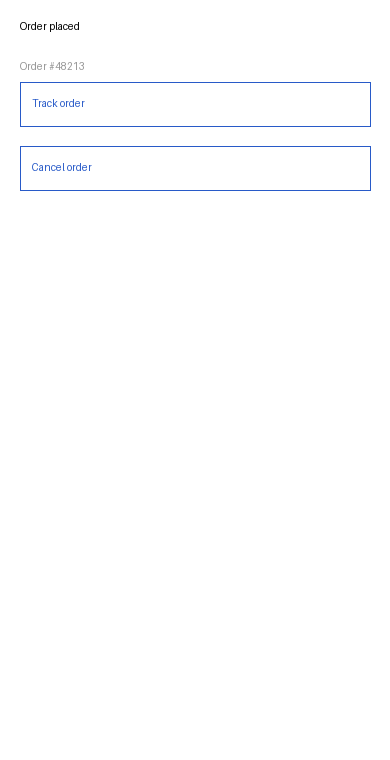
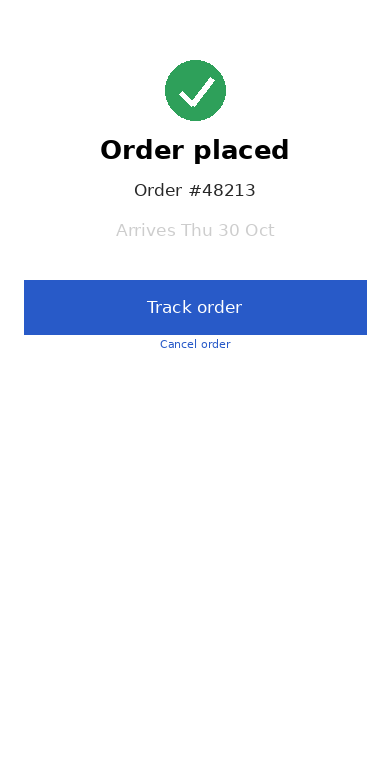
Fix two eval graders
The Design Guide rubrics judged the closing summary while their criteria
describe DESIGN.md, so they failed in both arms. They now focus on the
file, and new-system checks honest claims about the reply separately.

The audit-do-not-pad screenshot showed four problems, so an honest audit
could not stay at two. It now shows exactly two: a low-contrast delivery
date and a tiny Cancel link under the primary button.

The README now explains running the suite one tag at a time, because a
full run can exhaust a session's usage limit.

diff --git a/README.md b/README.md
@@ -174,7 +174,7 @@ claude plugin eval . --case stacked-coupon-gap --runs 1 --ablation none --scaffo
 ```
 
 - **Requirements.** Claude Code 2.1.269 or later and git 2.31 or later. Cases that grant `Bash` run in Claude Code's sandbox, which needs `bubblewrap` and `socat` on Linux or WSL.
-- **Cost.** Every run and judge call is billed to your account. In smoke runs a prompt-only run cost about $0.04 to $0.08 and a fixture run about $0.06 to $0.26, so a full suite lands roughly in the $25 to $35 range. Keep `--max-cost-usd` on.
+- **Cost.** Every run and judge call is billed to your account. In smoke runs a prompt-only run cost about $0.04 to $0.08 and a fixture run about $0.06 to $0.26, so a full suite lands roughly in the $25 to $35 range. Keep `--max-cost-usd` on. On a subscription plan the full suite can exhaust a session's usage limit (the first baseline stopped after 34 cases), so run it one `--tag` at a time across sessions. Runs that hit the limit score 0, so stop the suite rather than letting it continue.
 - **Judge.** The default judge is a small model and can misread long replies. Use `--judge-model sonnet` before trusting a regression.
 - **Results** go to `evals/results/`, which git ignores.
 

diff --git a/evals/design-guide/new-system/graders/criteria.md b/evals/design-guide/new-system/graders/criteria.md
@@ -1,12 +1,13 @@
 ---
 type: llm
+focus:
+  source: file
+  path: DESIGN.md
 ---
 
 PASS only if all of these hold:
-- Selects one primary style and explains why from the brief, saying the choice was its own.
-- The written design rules are concrete (named tokens, type, spacing, focal element), with three to five binding rules for the style.
-- Labels tokens and components as proposals, without claiming they are implemented or verified in a browser.
+- The document selects one primary style and explains why from the brief.
+- Its rules are concrete (named tokens, type, spacing, a focal element), with three to five binding rules for the style.
 
 FAIL if any of these happen:
-- Offers several styles without choosing one.
-- Claims the design was rendered or tested.
+- It offers several styles without choosing one.

diff --git a/evals/design-guide/new-system/graders/honest-claims.md b/evals/design-guide/new-system/graders/honest-claims.md
@@ -1,0 +1,10 @@
+---
+type: llm
+---
+
+PASS only if all of these hold:
+- The reply presents the style choice as its own, made from the brief.
+- It describes tokens and components as proposals, without claiming they are implemented or checked in a browser.
+
+FAIL if any of these happen:
+- It claims the design was rendered, tested or implemented.

diff --git a/evals/design-guide/pinned-editorial-design/graders/criteria.md b/evals/design-guide/pinned-editorial-design/graders/criteria.md
@@ -1,5 +1,8 @@
 ---
 type: llm
+focus:
+  source: file
+  path: DESIGN.md
 ---
 
 PASS only if all of these hold:

diff --git a/evals/design-guide/pinned-expressive-design/graders/criteria.md b/evals/design-guide/pinned-expressive-design/graders/criteria.md
@@ -1,5 +1,8 @@
 ---
 type: llm
+focus:
+  source: file
+  path: DESIGN.md
 ---
 
 PASS only if all of these hold:

diff --git a/evals/design-guide/pinned-human-made-design/graders/criteria.md b/evals/design-guide/pinned-human-made-design/graders/criteria.md
@@ -1,5 +1,8 @@
 ---
 type: llm
+focus:
+  source: file
+  path: DESIGN.md
 ---
 
 PASS only if all of these hold:

diff --git a/evals/design-guide/pinned-intentional-minimalism/graders/criteria.md b/evals/design-guide/pinned-intentional-minimalism/graders/criteria.md
@@ -1,5 +1,8 @@
 ---
 type: llm
+focus:
+  source: file
+  path: DESIGN.md
 ---
 
 PASS only if all of these hold:

diff --git a/evals/design-guide/pinned-kinetic-typography/graders/criteria.md b/evals/design-guide/pinned-kinetic-typography/graders/criteria.md
@@ -1,5 +1,8 @@
 ---
 type: llm
+focus:
+  source: file
+  path: DESIGN.md
 ---
 
 PASS only if all of these hold:

diff --git a/evals/design-guide/pinned-neoskeuomorphism/graders/criteria.md b/evals/design-guide/pinned-neoskeuomorphism/graders/criteria.md
@@ -1,5 +1,8 @@
 ---
 type: llm
+focus:
+  source: file
+  path: DESIGN.md
 ---
 
 PASS only if all of these hold:

diff --git a/evals/design-guide/pinned-story-driven-animation/graders/criteria.md b/evals/design-guide/pinned-story-driven-animation/graders/criteria.md
@@ -1,5 +1,8 @@
 ---
 type: llm
+focus:
+  source: file
+  path: DESIGN.md
 ---
 
 PASS only if all of these hold:
